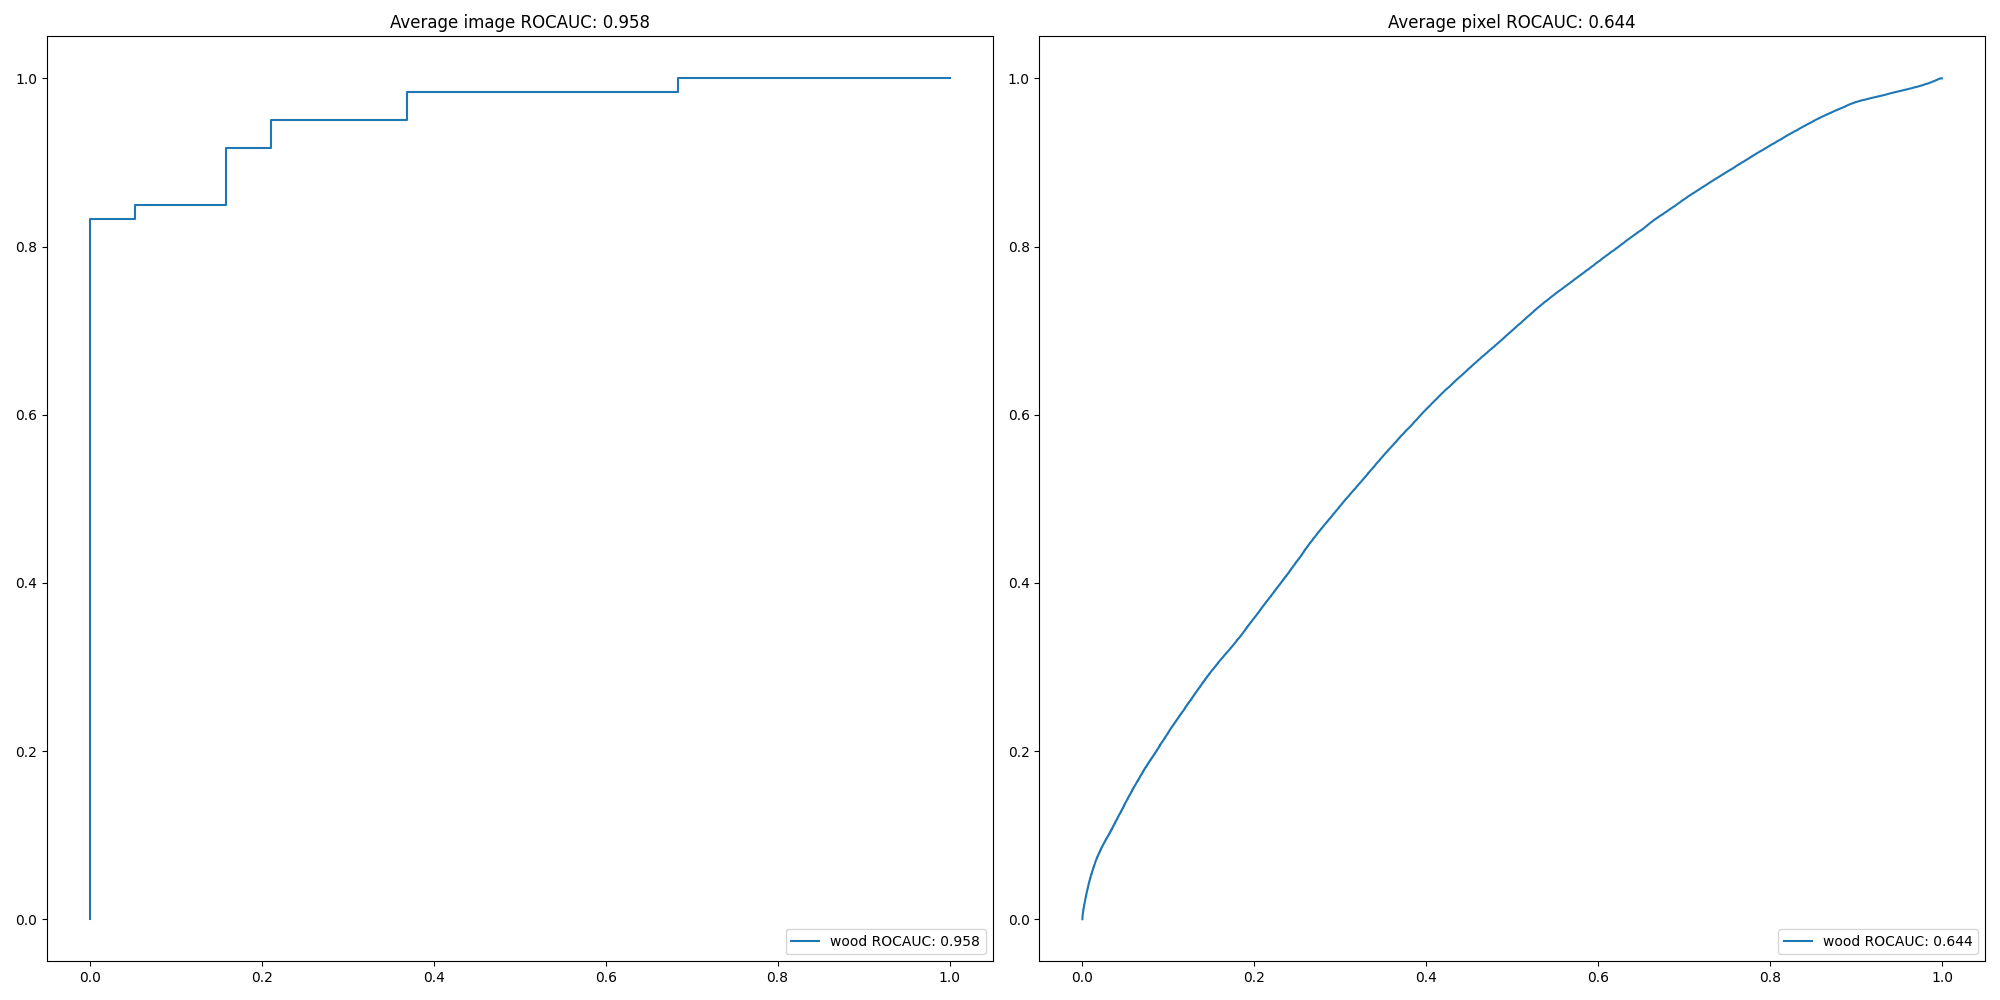
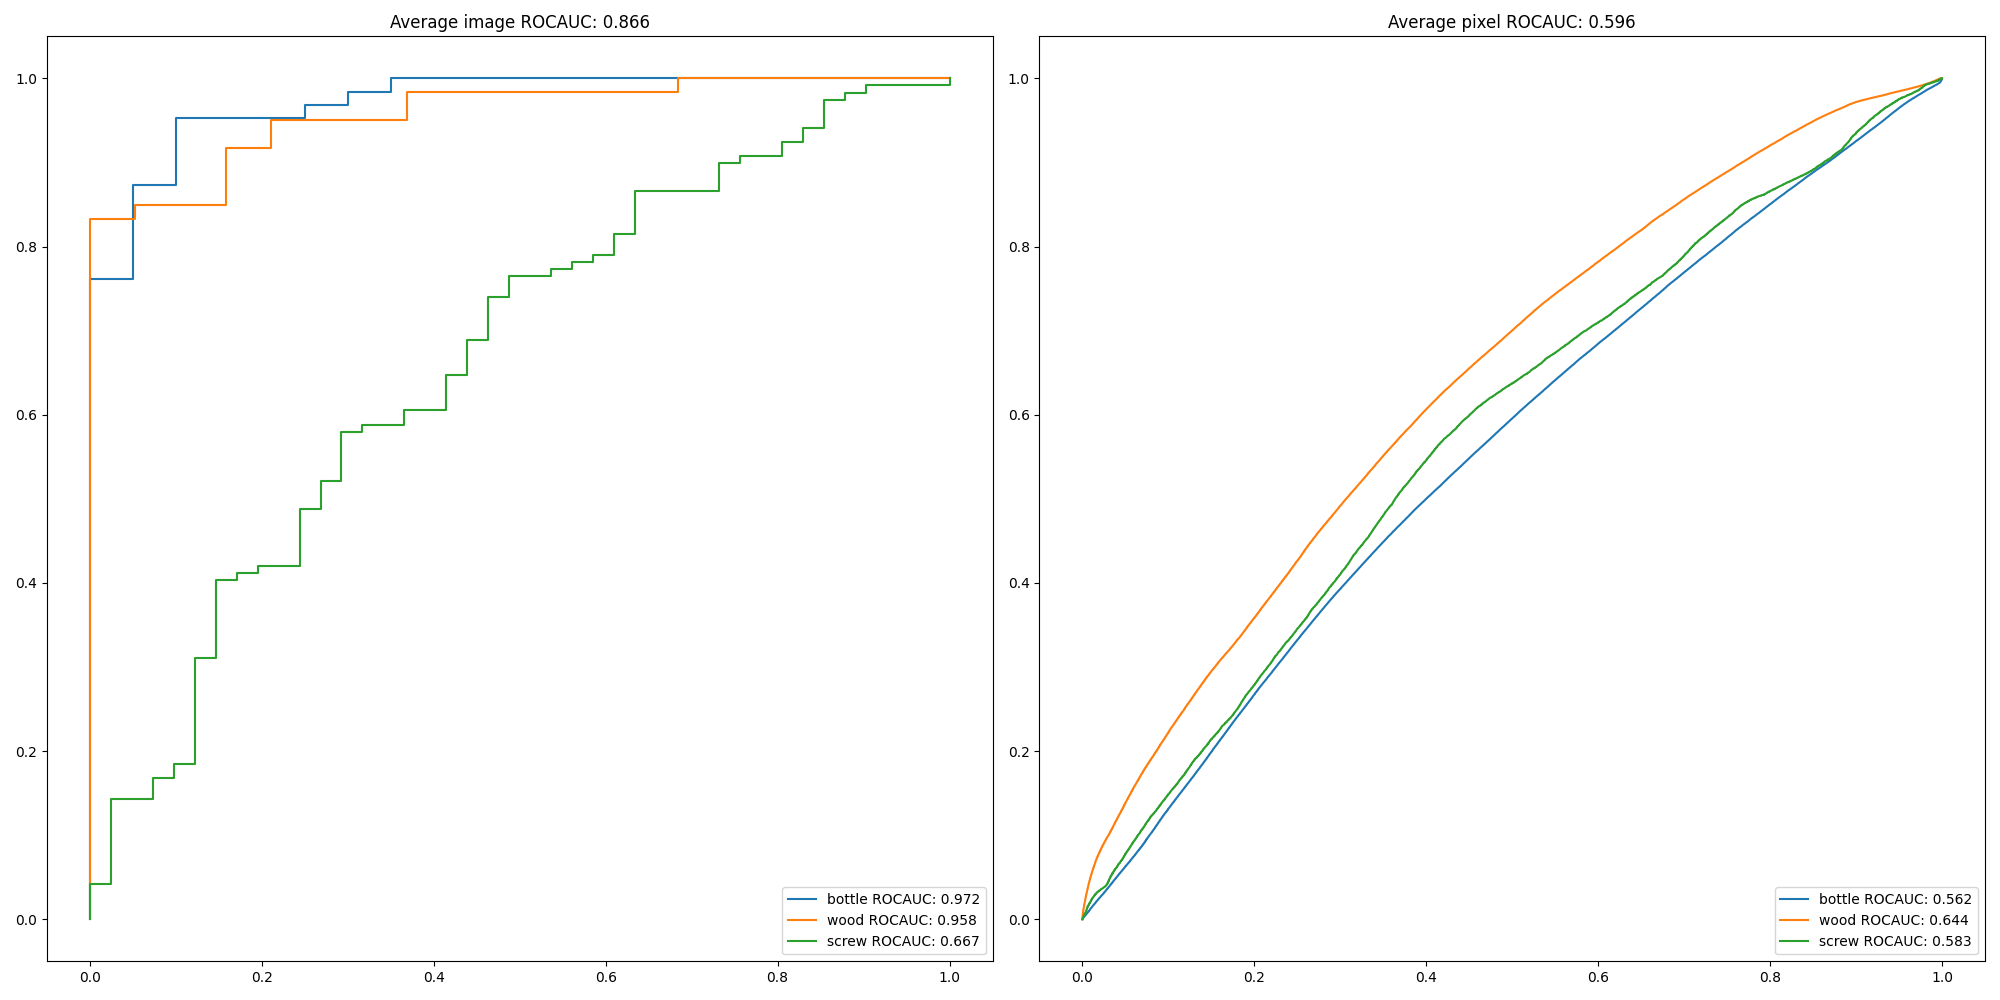
Added evaluation.py and tested SPADE

diff --git a/src/models/SPADE.py b/src/models/SPADE.py
@@ -12,10 +12,8 @@ from torch.utils.data import DataLoader
 from PIL import Image
 from tqdm import tqdm
 from sklearn.neighbors import NearestNeighbors
-from sklearn.metrics import roc_auc_score
 from sklearn.metrics import average_precision_score
 from sklearn.metrics import precision_recall_curve
-from sklearn.metrics import roc_curve
 from scipy.ndimage import gaussian_filter
 import matplotlib.pyplot as plt
 from collections import OrderedDict
@@ -27,7 +25,8 @@ import sys
 sys.path.append('../../')
 from src.data.MvTec import MVTecDataset
 
-
+# Impot the evaluation function
+from src.visualization.evaluation import evaluate_image_rocauc, evaluate_pixel_rocauc
 
 '''
 def parse_args():
@@ -137,9 +136,7 @@ def main(top_k, save_path = '../../models/SPADE/', class_names = ['bottle', 'woo
         scores = torch.mean(topk_values, 1).cpu().detach().numpy()
 
         # calculate image-level ROC AUC score
-        fpr, tpr, _ = roc_curve(gt_list, scores)
-        roc_auc = roc_auc_score(gt_list, scores)
-        total_roc_auc.append(roc_auc)
+        roc_auc, fpr, tpr = evaluate_image_rocauc(total_roc_auc, gt_list, scores)
         print('%s ROCAUC: %.3f' % (class_name, roc_auc))
         fig_img_rocauc.plot(fpr, tpr, label='%s ROCAUC: %.3f' % (class_name, roc_auc))
 
@@ -177,9 +174,7 @@ def main(top_k, save_path = '../../models/SPADE/', class_names = ['bottle', 'woo
         flatten_score_map_list = np.concatenate(score_map_list).ravel()
 
         # calculate per-pixel level ROCAUC
-        fpr, tpr, _ = roc_curve(flatten_gt_mask_list, flatten_score_map_list)
-        per_pixel_rocauc = roc_auc_score(flatten_gt_mask_list, flatten_score_map_list)
-        total_pixel_roc_auc.append(per_pixel_rocauc)
+        per_pixel_rocauc, fpr, tpr = evaluate_pixel_rocauc(total_pixel_roc_auc, flatten_gt_mask_list, flatten_score_map_list)
         print('%s pixel ROCAUC: %.3f' % (class_name, per_pixel_rocauc))
         fig_pixel_rocauc.plot(fpr, tpr, label='%s ROCAUC: %.3f' % (class_name, per_pixel_rocauc))
 
@@ -258,4 +253,4 @@ def denormalization(x):
     return x
 
 if __name__ == '__main__':
-    main(top_k = 5, save_path = '../../models/SPADE/', class_names = ['wood'])
+    main(top_k = 5, save_path = '../../models/SPADE/', class_names = ['bottle', 'wood', 'screw'])

diff --git a/src/visualization/evaluation.py b/src/visualization/evaluation.py
@@ -1,0 +1,26 @@
+from sklearn.metrics import roc_curve
+from sklearn.metrics import roc_auc_score
+
+def evaluate_image_rocauc(total_roc_auc, gt_list, scores, print=True):
+    """
+    Compute the ROC AUC for a class and append it to total_roc_auc.
+    Args:
+        total_roc_auc (list): List of ROC AUCs for all classes.
+        gt_list (list): List of ground truth images.
+        scores (list): List of predicted scores."""
+    fpr, tpr, _ = roc_curve(gt_list, scores)
+    roc_auc = roc_auc_score(gt_list, scores)
+    total_roc_auc.append(roc_auc)
+    return roc_auc, fpr, tpr
+
+def evaluate_pixel_rocauc(total_pixel_roc_auc, flatten_gt_mask_list, flatten_score_map_list, print=True):
+    """
+    Compute the ROC AUC for a class and append it to total_roc_auc.
+    Args:
+        total_pixel_roc_auc (list): List of pixel ROC AUCs for all classes.
+        flatten_gt_mask_list (list): List of ground truth images.
+        flatten_score_map_list (list): List of predicted scores for each pixel."""
+    fpr, tpr, _ = roc_curve(flatten_gt_mask_list, flatten_score_map_list)
+    per_pixel_rocauc = roc_auc_score(flatten_gt_mask_list, flatten_score_map_list)
+    total_pixel_roc_auc.append(per_pixel_rocauc)
+    return per_pixel_rocauc, fpr, tpr
